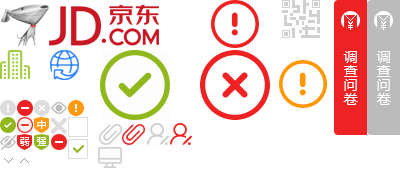
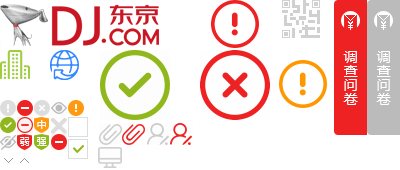
分类目录完成。

Changed region(s): [[0.0, 0.0294, 0.42, 0.2941]]

diff --git a/User_Interface_Layer/js/index-cate.js b/User_Interface_Layer/js/index-cate.js
@@ -1,3 +1,14 @@
-$('.cate_menu_item a').focusin(function () {
-    console.log($(this.parentNode).attr("data-index"));
+$('.cate_menu_item a').mouseenter(function () {
+    $('.cate_part').css('display', 'none');
+    var id = $(this.parentNode).attr("data-index");
+    $('.cate_pop').css('display', 'block');
+    $('#cate_item' + id).css('display', 'block');
+});
+$('.cate_menu,.cate_pop').mouseleave(function (event) {
+    console.log(event.relatedTarget);
+    if (event.relatedTarget.className.indexOf('cate') != -1 ||
+        event.relatedTarget.parentNode.className.indexOf('cate') != -1) return;
+    if ($(event.relatedTarget.id).hasClass('cate_menu')) return;
+    $('.cate_part').css('display', 'none');
+    $('.cate_pop').css('display', 'none');
 });

diff --git a/User_Interface_Layer/js/toolbar.js b/User_Interface_Layer/js/toolbar.js
@@ -24,7 +24,7 @@
 			jdvip: {
 				index: .3,
 				enabled: !0,
-				title: "京东会员",
+				title: "东京会员",
 				login: !0,
 				vip: "1",
 				iframe: "//vip.jd.com/sideBar/index.html"

diff --git a/User_Interface_Layer/index.aspx.cs b/User_Interface_Layer/index.aspx.cs
@@ -19,9 +19,10 @@ namespace User_Interface_Layer
                 text += "<li class=\"cate_menu_item\" data-index=\"" + (i+1).ToString() + "\"><a target=\"_blank\" class=\"cate_menu_lk\" href=\"#\">" + cate_first.ElementAt(i).TypeName + "</a></li>\n";
             server_cate.Text = text;
             text = "";
+            //return;
             for(int i=0;i<cate_first.Count;i++)
             {
-                text += "<div class=\"cate_part clearfix\" id=\"cate_item" + (i+1).ToString() + "\" data-id=\"" + (char)((int)'a' + i) + "\" data-inlazuqueue=\"true\" style=\"display: none;\">\n";
+                text += "<div class=\"cate_part clearfix\" id=\"cate_item" + (i+1).ToString() + "\" data-id=\"" + (char)((int)'a' + i) + "\" data-inlazuqueue=\"true\" style=\"display: none;padding-top: 10px;\">\n";
                 var cate_pop = BLL_GoodsType.queryTypesChild(1, cate_first.ElementAt(i).TypeID);
                 text += "<div class=\"cate_part_col1\">\n<div class=\"cate_detail\">\n";
                 for(int j=0;j<cate_pop.Count;j++)

diff --git a/User_Interface_Layer/index.aspx.designer.cs b/User_Interface_Layer/index.aspx.designer.cs
@@ -2,8 +2,8 @@
 // <自动生成>
 //     此代码由工具生成。
 //
-//     对此文件的更改可能会导致不正确的行为，并且如果
-//     重新生成代码，这些更改将会丢失。 
+//     对此文件的更改可能导致不正确的行为，如果
+//     重新生成代码，则所做更改将丢失。
 // </自动生成>
 //------------------------------------------------------------------------------
 
